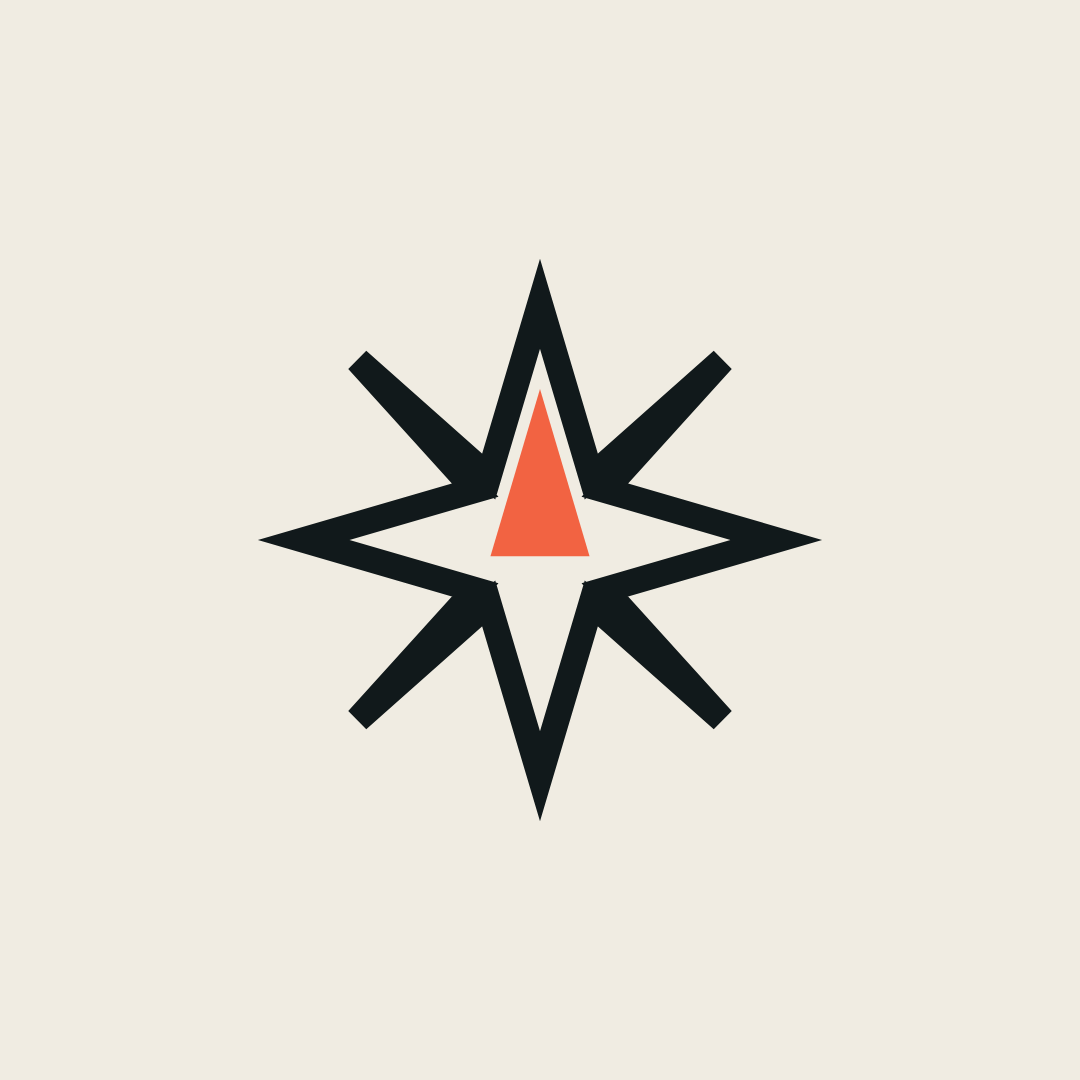
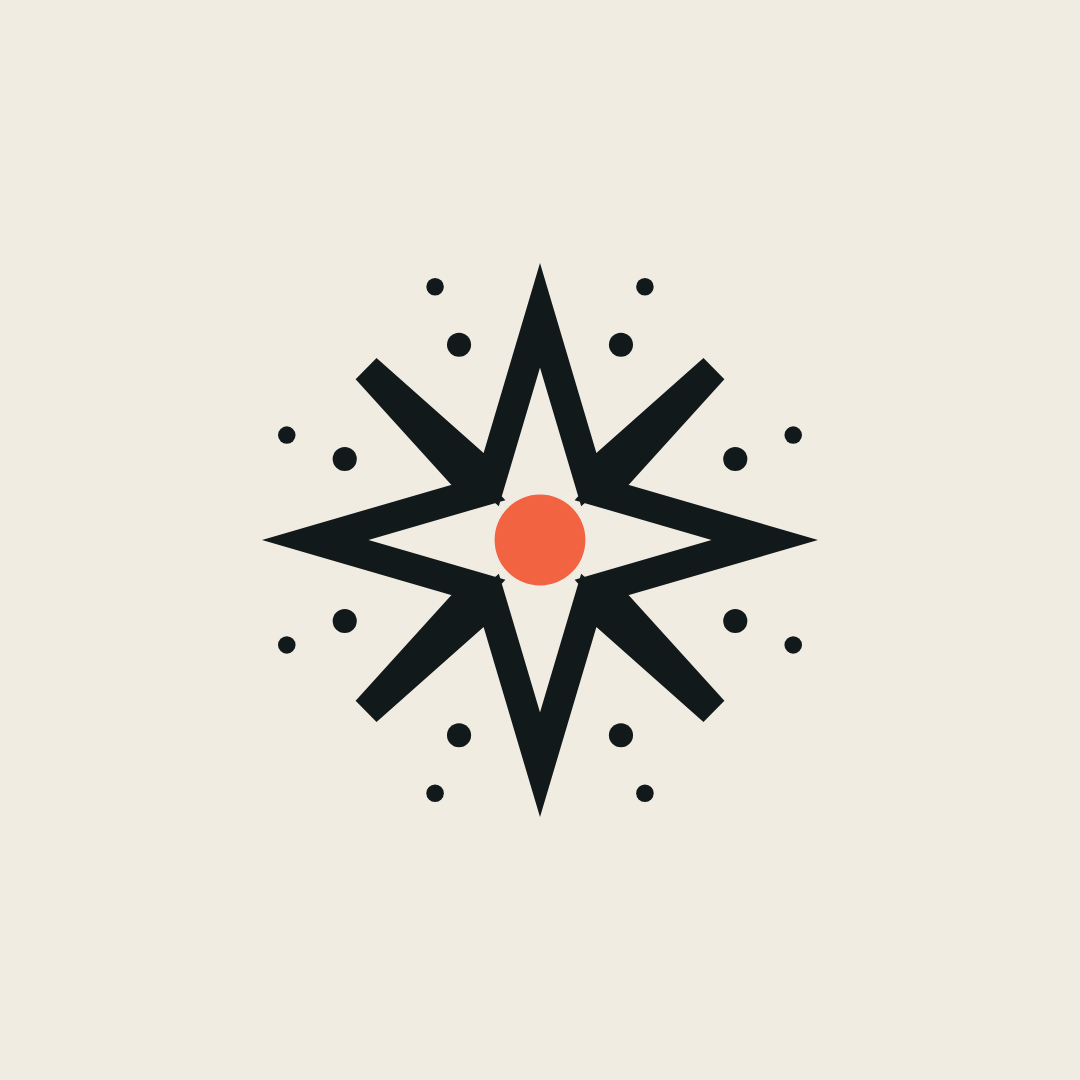
Make the mark Star in the noise
Veer's pick: the chisel star, a little smaller, with specks of noise outside
it and one persimmon dot, the choice, at the centre. Replaces the north arrow.
The logo and mark now carry the persimmon dot too.

diff --git a/scripts/build_brand_assets.py b/scripts/build_brand_assets.py
@@ -1,7 +1,8 @@
 """Build Distill's logo and profile pictures as SVG (public/assets/brand/).
 
-The mark is the Figma eight-point chisel star (apps/web/components/d-star.tsx), with its
-core drawn out into an arrow pointing north (Veer, 27 Oct).
+The mark is "Star in the noise" (Veer, 27 Oct): the Figma eight-point chisel star
+(apps/web/components/d-star.tsx) with specks of noise outside it and one persimmon dot,
+the choice, at its centre.
 The wordmark is Newsreader, outlined to paths so the files need no font.
 Run: python3 scripts/build_brand_assets.py   (PNG exports: scripts/export_brand_pngs.sh)
 """
@@ -21,26 +22,22 @@ STAR = ("M20 2.5l3.8 12.8 9.7-8.6-8.7 9.6 12.7 3.7-12.7 3.7 8.7 9.6-9.7-8.6L20 3
         "l-3.8-12.8-9.7 8.6 8.7-9.6L2.5 20l12.7-3.7-8.7-9.6 9.7 8.6L20 2.5z")
 
 
-def needle(stroke, gap=0.85, base=21.2):
-    """The core drawn out into an arrow up the north ray.
+def star(x, y, size, color, core=None, stroke=1.35):
+    """Star in the noise, in a size x size box at (x, y). stroke is in the 40-unit box.
 
-    Its sides run parallel to the ray's, an even gap inside the outline, from the
-    centre to just short of the tip: the star points north, the direction we want
-    your life to go in.
+    The chisel star, a little smaller, with loose specks of noise left outside it
+    and one dot inside: the noise distilled down to one choice.
     """
     import math
-    half = math.atan(3.8 / 12.8)                          # the north ray's half-angle
-    ay = 2.5 + (stroke / 2 + gap) / math.sin(half)        # apex, `gap` inside the stroke
-    hw = (base - ay) * math.tan(half)
-    return f"M20 {ay:.2f}L{20 + hw:.2f} {base}L{20 - hw:.2f} {base}Z"
-
-
-def star(x, y, size, color, core=None, stroke=1.35):
-    """The star in a size x size box at (x, y). stroke is in the 40-unit box."""
-    s = size / 40
+    s, w = size / 40, stroke / 1.35
+    specks = ""
+    for a in range(0, 360, 45):
+        for r, rad in ((13.5, 0.55), (17.5, 0.4)):
+            t = math.radians(a + 22.5)
+            specks += f'<circle cx="{20 + r * math.sin(t):.2f}" cy="{20 - r * math.cos(t):.2f}" r="{rad * w:.2f}" fill="{color}"/>'
     return (f'<g transform="translate({x:.2f} {y:.2f}) scale({s:.4f})">'
-            f'<path d="{STAR}" fill="none" stroke="{color}" stroke-width="{stroke}"/>'
-            f'<path d="{needle(stroke)}" fill="{core or color}"/></g>')
+            f'<path d="{STAR}" transform="translate(3.6 3.6) scale(0.82)" fill="none" stroke="{color}" stroke-width="{stroke / 0.82:.2f}"/>'
+            f'{specks}<circle cx="20" cy="20" r="2.9" fill="{core or color}"/></g>')
 
 
 def wordmark_font():
@@ -126,7 +123,7 @@ PROFILES = {
 }
 
 
-def profile(p, size=1080, mark_ratio=0.5, stroke=1.9):
+def profile(p, size=1080, mark_ratio=0.58, stroke=1.9):
     m = size * mark_ratio
     o = (size - m) / 2
     body = f'<rect width="{size}" height="{size}" fill="{p["bg"]}"/>\n' + star(o, o, m, p["star"], p["core"], stroke)
@@ -137,10 +134,10 @@ def main():
     OUT.mkdir(parents=True, exist_ok=True)
     font = wordmark_font()
     files = {
-        "distill-logo-light.svg": lockup(font, INK),       # for light grounds
-        "distill-logo-dark.svg": lockup(font, GROUND),     # for dark grounds
-        "distill-mark-light.svg": mark_only(INK),
-        "distill-mark-dark.svg": mark_only(GROUND),
+        "distill-logo-light.svg": lockup(font, INK, PERSIMMON),       # for light grounds
+        "distill-logo-dark.svg": lockup(font, GROUND, PERSIMMON),     # for dark grounds
+        "distill-mark-light.svg": mark_only(INK, PERSIMMON),
+        "distill-mark-dark.svg": mark_only(GROUND, PERSIMMON),
     }
     for key, p in PROFILES.items():
         files[f"profile-{key}.svg"] = profile(p)

diff --git a/public/assets/brand/README.md b/public/assets/brand/README.md
@@ -9,6 +9,7 @@ Preview all of it: `preview.html` (or `preview.png`).
 | `profile-*.svg`, `png/profile-*-400.png`, `-1080.png` | Social profile pictures (Instagram, X, TikTok, LinkedIn). Square and full-bleed; the star sits inside the circle crop. Upload the 1080 PNG. |
 | `png/distill-logo-*.png`, `png/distill-mark-*.png` | Transparent PNGs at 4x. |
 
-- The star is the Figma eight-point chisel star, the same path as `apps/web/components/d-star.tsx`. Its centre dot is drawn out into an arrow up the north ray: the direction we want your life to go in. Profile pictures use a heavier stroke so it holds at 40px.
+- The mark is **Star in the noise**: the Figma eight-point chisel star (same path as `apps/web/components/d-star.tsx`), a little smaller, with specks of noise left outside it and one persimmon dot inside: the noise distilled down to one choice. Profile pictures use a heavier stroke so it holds at 40px.
+- The idea behind it (16 dots, then 8, then 4, then one) suits motion: a loader or a reveal, not the logo.
 - The wordmark is Newsreader 500, outlined to paths, so the files need no font.
 - Rebuild: `python3 scripts/build_brand_assets.py`, then `scripts/export_brand_pngs.sh` (needs Google Chrome).
